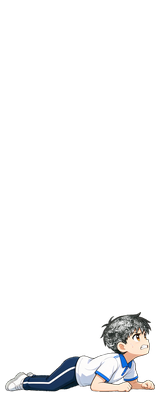
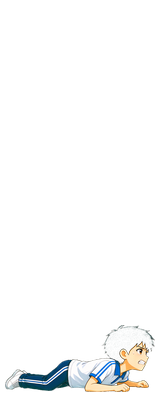
fix(ch01-dorm): 趴地贴图改用参考图重出，并给起身加撑地过渡
- zhou_prone 用 zhou_idle_right + zhou_sit_right 作参考图重生成（imwpx1zuvb80bfe），
  配色/画风与游戏精灵对齐（人物 150×67，底边 392）
- 撑起前先把趴姿顶起 5px、加衣料声与一记轻震，再 200ms 交叉淡到坐姿；
  CH01_GETUP_PERFORMANCE 首拍 wait 170→200 对齐
- 文档同步：ASSET-CREDITS §14（参考图方式/替换原因）、RESOURCE-SPEC

Changed region(s): [[0.0312, 0.78, 0.9688, 0.99]]

diff --git a/src/scenes/ch01-dorm-scene.ts b/src/scenes/ch01-dorm-scene.ts
@@ -2273,32 +2273,47 @@ export class Ch01DormScene extends UIScene {
     this.proneTween?.remove();
     this.proneTween = null;
     const display = player.display;
-    // 先钉成坐姿（站起序列第 0 帧），再用交叉淡入把趴姿换掉。
-    player.setSitting(true);
-    if (display) {
-      display.setVisible(true).setAlpha(this.reduced ? 1 : 0);
-      if (!this.reduced) {
-        this.tweens.add({ targets: display, alpha: 1, duration: 170, ease: 'Sine.easeInOut' });
-      }
+    /**
+     * 趴 → 坐不是一瞬间的「换图」：先把趴姿顶起来一点（撑地的动作），
+     * 再在尘土 + 一记很轻的震屏里交叉淡到坐姿，读起来才是「撑起身子」。
+     */
+    const brace = this.reduced ? 0 : 90;
+    const fade = this.reduced ? 0 : 200;
+    if (prone && brace > 0) {
+      this.tweens.add({ targets: prone, y: prone.y - 5, duration: brace, ease: 'Sine.easeOut' });
     }
-    this.spawnSitDust(player.position);
-    if (prone) {
-      prone.setTint(0xffb4b4);
-      this.tweens.add({
-        targets: prone,
-        alpha: 0,
-        duration: this.reduced ? 0 : 170,
-        onComplete: () => {
-          prone.destroy();
-          if (this.proneSprite === prone) this.proneSprite = null;
-        },
-      });
-    }
+    audioDirector.playSfxAt(PALACE_ASSET_KEYS.sfx.cloth, { volume: 0.26 });
+    if (!this.reduced) this.cameras.main.shake(140, 0.0022);
 
-    this.startPerformance(CH01_GETUP_PERFORMANCE, () => {
-      this.player?.setSitting(false);
-      if (settings.autoAdvance) this.scheduleAutoAdvance();
-    });
+    const beginFade = (): void => {
+      // 先钉成坐姿（站起序列第 0 帧），再用交叉淡入把趴姿换掉。
+      player.setSitting(true);
+      if (display) {
+        display.setVisible(true).setAlpha(this.reduced ? 1 : 0);
+        if (fade > 0) {
+          this.tweens.add({ targets: display, alpha: 1, duration: fade, ease: 'Sine.easeInOut' });
+        }
+      }
+      this.spawnSitDust(player.position);
+      if (prone) {
+        prone.setTint(0xffb4b4);
+        this.tweens.add({
+          targets: prone,
+          alpha: 0,
+          duration: fade,
+          onComplete: () => {
+            prone.destroy();
+            if (this.proneSprite === prone) this.proneSprite = null;
+          },
+        });
+      }
+      this.startPerformance(CH01_GETUP_PERFORMANCE, () => {
+        this.player?.setSitting(false);
+        if (settings.autoAdvance) this.scheduleAutoAdvance();
+      });
+    };
+    if (brace > 0) this.time.delayedCall(brace, beginFade);
+    else beginFade();
   }
 
   /** 梦域这一段先在金殿里演完（走位/台词），再由宫殿场景自己切战斗。 */

diff --git a/src/story/ch01-performance.ts b/src/story/ch01-performance.ts
@@ -371,14 +371,14 @@ export const CH01_WAKE_PERFORMANCE: PerformanceTimeline = {
 /**
  * 黑场胁迫收尾：趴地 → 撑起坐住 → 起身（8 帧）→ 小白同步飘回头部中线。
  *
- * 第一拍是 `wait`：场景在这 170ms 里把趴姿交叉淡成坐姿（站起序列第 0 帧），
+ * 第一拍是 `wait`：场景在这 200ms 里把趴姿交叉淡成坐姿（站起序列第 0 帧），
  * 时间线自己不驱动贴图，等淡完再开帧序列，避免「还趴着就开始站」。
  * 之后的 `frame-sequence` / `float-actor(parallel)` 与 `CH01_WAKE_PERFORMANCE` 同源同长。
  */
 export const CH01_GETUP_PERFORMANCE: PerformanceTimeline = {
   id: 'getUp',
   steps: [
-    { kind: 'wait', ms: 170, reducedMs: 60 },
+    { kind: 'wait', ms: 200, reducedMs: 60 },
     {
       kind: 'frame-sequence',
       actor: 'zhou',

diff --git a/docs/ASSET-CREDITS.md b/docs/ASSET-CREDITS.md
@@ -714,14 +714,16 @@ v2 起改成每人一张、纯绿幕底（方便抠像），替换原来的 2×2
 
 ## 14. 黑场收尾 · 周全趴地姿势（2026-11-21）
 
-- 文件：`public/assets/img/character/ch01/zhou_prone.png`（160×400 RGBA，人物横躺 150×80、底边 392、水平中心 80）
+- 文件：`public/assets/img/character/ch01/zhou_prone.png`（160×400 RGBA，人物横躺 150×67、底边 392、水平中心 80）
 - 用途：战后黑场胁迫收尾——被压趴下 → 趴着喘气 → 撑起站立（`CH01_GETUP_PERFORMANCE`）。
 - 来源：游戏素材大师 · 图片生成（火山方舟 `doubao-seedream-5-0-flash-260915`，1536×1024，count 2，watermark off）
-- 任务：`imwpvyjerb878c9`（2 张，选 img-01；img-00 手臂压在身下、轮廓不如 01 清楚）
+- 任务：`imwpx1zuvb80bfe`（v2：**带参考图**；2 张，选 img-00 —— 抬头更高、手臂撑在身前，接得上「撑起来」）。
+  首版 `imwpvyjerb878c9` 是纯文生（无参考图），出图比游戏精灵更细、头身比偏成人，玩家反馈「没衔接好」，已替换。
 - 提示词要点：纯绿底 `#00FF00`、单人全身；Q 版三头身/赛璐璐平涂/粗描边；人物固定设定（黑短发、白 polo 蓝领、深藏青运动裤白侧条、白鞋）；
   **姿势**：整个人趴在地上、头在画面右侧、头和肩微抬、前臂撑地、腰背弓起、双腿后伸膝盖触地、表情痛苦咬牙冒汗；禁止站立/坐起/跪直、第二人、地面线、投影、文字
-- 只给了文字设定、**没有上传参考图**：`uploadImageRef` 只收 base64，160×400 精灵转 base64 约 7–45 KB，性价比低；
-  出图里 polo/裤子/鞋的配色与角色一致，低分辨率（屏显约 81×43 CSS px）+ 黑场压暗后风格差异不明显
+- 参考图：`zhou_idle_right.png`（正侧面站立，画风/配色/头身比基准）+ `zhou_sit_right.png`（同一角色的坐地姿势，非站立构图参考），
+  用 `game_material({action:"upload", module:"image", kind:"ref", id, path})` 直传本机文件（**不要把 base64 贴进对话**，见记忆里的教训）。
+- prompt 首段写死「严格照参考图的画风、人物设计、头身比和上色方式」+「赛璐璐平涂、粗描边、禁止细碎发丝/厚涂」，否则模型会画出半写实比例。
 - 抠像：`keyImageJob`（keyColor `#00FF00` / keyLow 14 / keyHigh 80 / despill 0.65 / **bgTolerance 0**）
 - 后期（一次性脚本，未入库）：按色相剔除残留绿色（`g - max(r,b) > 8` → alpha 0，含地面绿影），并把 g 压到 `max(r,b)+4`（去绿边）；
   裁 alpha bbox → 等比缩到宽 150 → 合成到 160×400 画布（底边 392、水平居中）→ PNG

diff --git a/docs/RESOURCE-SPEC.md b/docs/RESOURCE-SPEC.md
@@ -56,7 +56,7 @@ interface AssetDef {
 - BGM/SFX 标 `required:false`：音频失败只静音，不阻断剧情。
 - 2026-11-21（黑场收尾趴姿）：`ch.01` 新增 `img.char.ch01.zhou_prone` → `assets/img/character/ch01/zhou_prone.png`
   （160×400 RGBA，人物横躺 150×80、底边 392、水平中心 80，与坐姿/起身同一套画布基准）。
-  由游戏素材大师 `image` 模块生成（job `imwpvyjerb878c9`）后抠像 + 去绿边 + 等比缩放合成；见 `docs/ASSET-CREDITS.md` §14。
+  由游戏素材大师 `image` 模块生成（job `imwpx1zuvb80bfe`，带 `zhou_idle_right` / `zhou_sit_right` 参考图）后抠像 + 去绿边 + 等比缩放合成；见 `docs/ASSET-CREDITS.md` §14。
 - 2026-11-21（战后黑场胁迫段音效）：`ch.01` 新增 4 条 `required:false` 音效 →
   `assets/audio/sfx/ch01_dark_pressure.mp3`（10.55s 无缝循环，127 KB）、
   `ch01_dark_grip.mp3`（1.41s，18 KB）、`ch01_dark_release.mp3`（1.91s，24 KB）、
